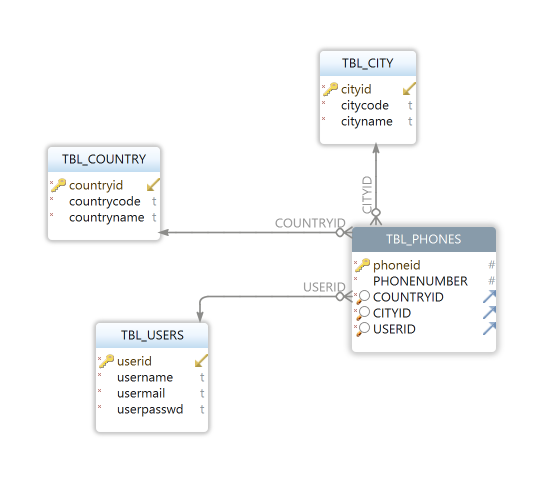
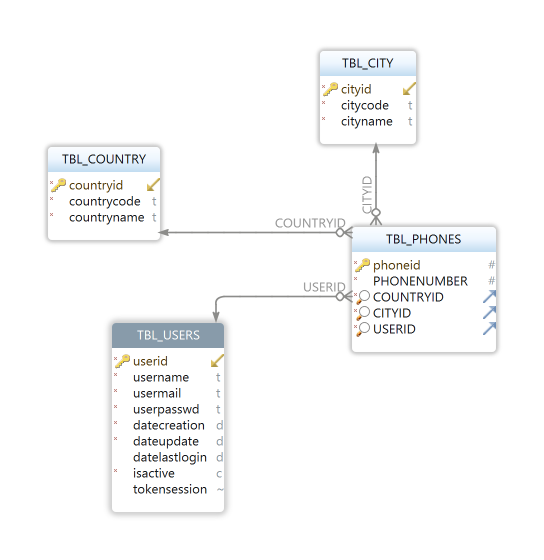
JiraID: validations implemented, DB model modified

Changed region(s): [[0.0625, 0.0625, 0.9375, 0.9375], [0.0938, 0.5, 0.2812, 0.5312], [0.0625, 0.4375, 0.0938, 0.5]]

diff --git a/src/main/java/com/ey/services/usecases/UserServiceImpl.java b/src/main/java/com/ey/services/usecases/UserServiceImpl.java
@@ -9,11 +9,13 @@ import com.ey.services.ports.CityService;
 import com.ey.services.ports.CountryService;
 import com.ey.services.ports.PhoneService;
 import com.ey.services.ports.UserService;
+import com.ey.util.ValidationUtil;
 import org.modelmapper.ModelMapper;
 import org.springframework.beans.factory.annotation.Autowired;
 import org.springframework.stereotype.Service;
 
 import java.util.ArrayList;
+import java.util.Calendar;
 import java.util.List;
 
 @Service
@@ -60,31 +62,63 @@ public class UserServiceImpl implements UserService {
 
         System.out.println("--UserDTO--: " + userDto);
 
+        try {
+
+            if(!ValidationUtil.isValidEmail(userDto.getUserMail())){
+                throw new Exception("Email Error");
+            }
+
+            if(!ValidationUtil.isValidPassword(userDto.getUserPasswd())){
+                throw new Exception("Passwd Error");
+            }
+
+            User uTmp = getUserEnt(userDto);
+
+            userRepository.save(uTmp);
+
+            UserDTO uDTO = modelMapper.map(uTmp, UserDTO.class);
+
+            userDto.getPhones().stream().forEach(phone -> {
+
+                CityDTO cDto = cityService.findCityByCityCode(phone.getCityCode());
+                phone.setCityDTO(cDto);
+
+                CountryDTO countryDTO = countryService.findByCountryCode(phone.getCountryCode());
+                phone.setCountryDTO(countryDTO);
+
+                phone.setUserDTO(uDTO);
+
+                phoneService.savePhone(phone);
+            });
+
+            return userDto;
+
+        } catch (Exception e) {
+            System.out.println("--Message: "+e.getMessage());
+            throw new RuntimeException(e);
+        }
+
+    }
+
+    public User getUserEnt(UserDTO userDto) {
         User userEnt = new User();
         userEnt.setUserName(userDto.getUserName());
-        userEnt.setUserMail(userDto.getUserMail());
+        userEnt.setUserMail(userDto.getUserMail().toLowerCase());
         userEnt.setUserPasswd(userDto.getUserPasswd());
-
-        userRepository.save(userEnt);
+        userEnt.setDateCreation(Calendar.getInstance().getTime());
+        userEnt.setDateUpdate(Calendar.getInstance().getTime());
+        userEnt.setDateLastLogin(Calendar.getInstance().getTime());
+        userEnt.setIsActive("1");
 
         System.out.println("** userEnt **: " + userEnt);
 
-        UserDTO uDTO = modelMapper.map(userEnt, UserDTO.class);
-
-
-        userDto.getPhones().stream().forEach(phone -> {
-
-            CityDTO cDto = cityService.findCityByCityCode(phone.getCityCode());
-            phone.setCityDTO(cDto);
-
-            CountryDTO countryDTO = countryService.findByCountryCode(phone.getCountryCode());
-            phone.setCountryDTO(countryDTO);
-
-            phone.setUserDTO(uDTO);
-
-            phoneService.savePhone(phone);
-        });
-
-        return userDto;
+        return userEnt;
     }
+
+    private void validateEmailFormat(String email){
+
+
+    }
+
+
 }

diff --git a/src/main/java/com/ey/domain/entities/User.java b/src/main/java/com/ey/domain/entities/User.java
@@ -6,6 +6,7 @@ import lombok.NoArgsConstructor;
 
 import javax.persistence.*;
 import javax.validation.constraints.NotBlank;
+import java.util.Date;
 import java.util.List;
 
 @Entity
@@ -31,6 +32,21 @@ public class User {
 
     @OneToMany(mappedBy = "user", cascade = CascadeType.ALL)
     public List<Phone> phones;
+
+    @Column(name = "datecreation", nullable = false, length = 50)
+    public Date dateCreation;
+
+    @Column(name = "dateupdate", nullable = false, length = 50)
+    public Date dateUpdate;
+
+    @Column(name = "datelastlogin", length = 50)
+    public Date dateLastLogin;
+
+    @Column(name = "isactive", nullable = false, length = 1)
+    public String isActive;
+
+    @Column(name = "tokensession", length = 200)
+    public String tokenSession;
 
     @Override
     public String toString() {

diff --git a/src/main/java/com/ey/util/ValidationUtil.java b/src/main/java/com/ey/util/ValidationUtil.java
@@ -1,0 +1,26 @@
+package com.ey.util;
+
+import java.util.regex.Pattern;
+
+public class ValidationUtil {
+
+    public static final String EMAIL_PATTERN = "^(?=.{1,64}@)[A-Za-z0-9_-]+(\\.[A-Za-z0-9_-]+)*@[^-][A-Za-z0-9-]+(\\.[A-Za-z0-9-]+)*(\\.[A-Za-z]{2,})$";
+
+    public static final String PASSWD_PATTERN = "^(?=(.*\\d){2})(?=.*[a-zA-z]).{4,8}$";
+
+    public static boolean patternToMatch(String objToEvaluate, String regexPattern) {
+        return Pattern.compile(regexPattern)
+                .matcher(objToEvaluate)
+                .matches();
+    }
+
+    public static boolean isValidEmail(String email){
+
+        return patternToMatch(email, EMAIL_PATTERN);
+    }
+
+    public static boolean isValidPassword(String passwd){
+
+        return patternToMatch(passwd, PASSWD_PATTERN);
+    }
+}

diff --git a/src/main/java/com/ey/domain/dtos/PhoneDTO.java b/src/main/java/com/ey/domain/dtos/PhoneDTO.java
@@ -1,5 +1,6 @@
 package com.ey.domain.dtos;
 
+import com.fasterxml.jackson.annotation.JsonIgnore;
 import com.fasterxml.jackson.annotation.JsonProperty;
 import lombok.AllArgsConstructor;
 import lombok.Data;
@@ -21,9 +22,12 @@ public class PhoneDTO {
     @JsonProperty("countrycode")
     private String countryCode;
 
+    @JsonIgnore
     private CityDTO cityDTO;
 
+    @JsonIgnore
     private CountryDTO countryDTO;
 
+    @JsonIgnore
     private UserDTO userDTO;
 }

diff --git a/src/main/java/com/ey/domain/dtos/UserDTO.java b/src/main/java/com/ey/domain/dtos/UserDTO.java
@@ -1,5 +1,7 @@
 package com.ey.domain.dtos;
 
+import com.fasterxml.jackson.annotation.JsonFormat;
+import com.fasterxml.jackson.annotation.JsonIgnore;
 import com.fasterxml.jackson.annotation.JsonProperty;
 import lombok.AllArgsConstructor;
 import lombok.Data;
@@ -13,6 +15,7 @@ import java.util.List;
 @AllArgsConstructor
 public class UserDTO {
 
+    @JsonIgnore
     public Integer userId;
 
     @JsonProperty(value = "name", required = true)
